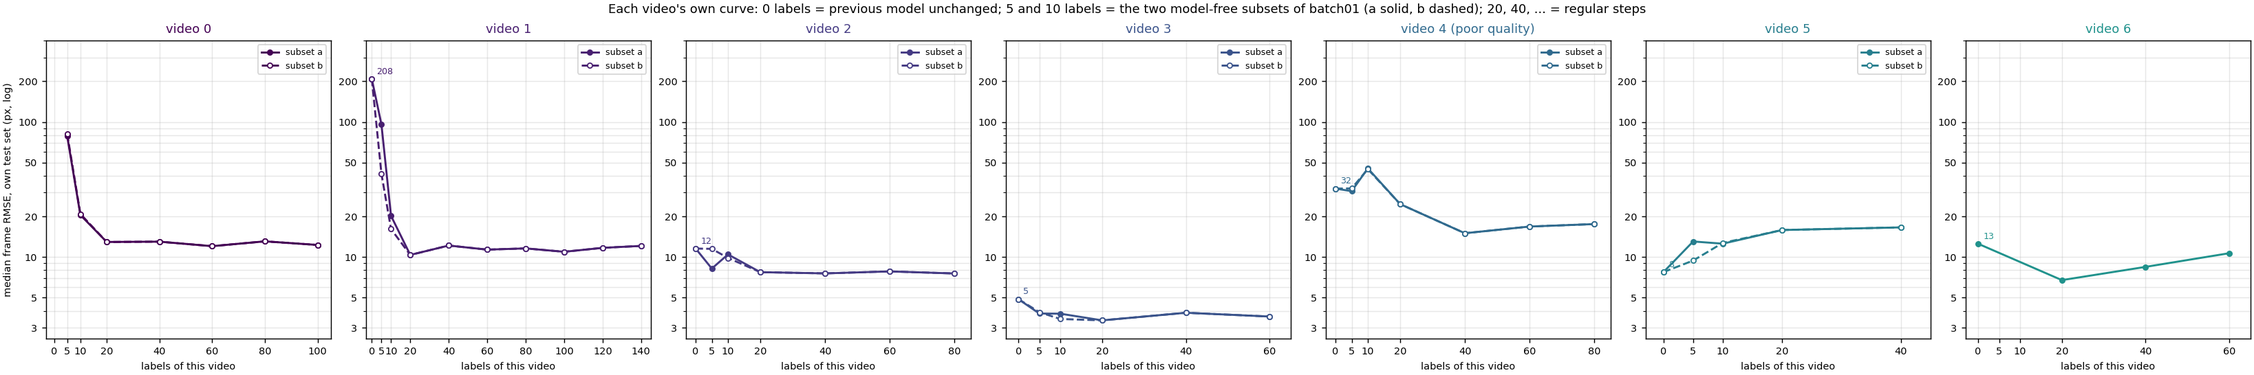
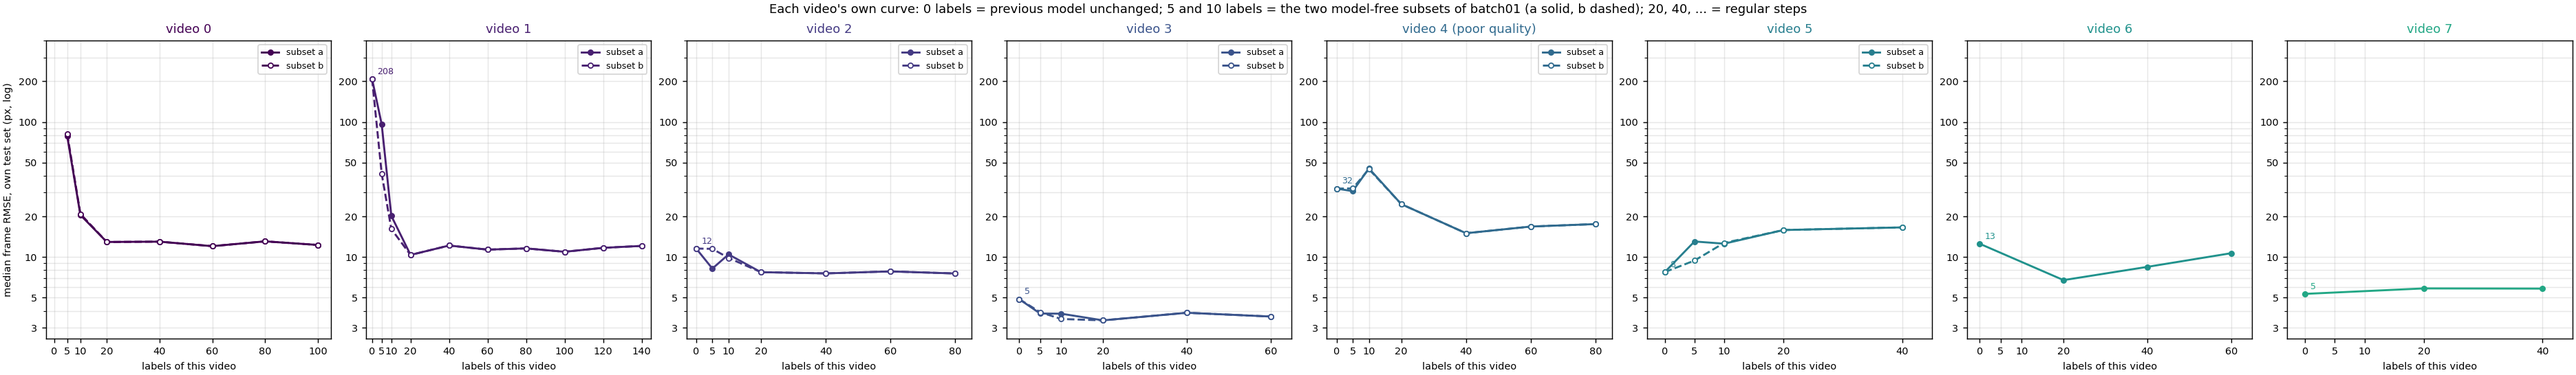
Video 8 (v2 line): test set relabeled under v2 and frozen; 0-label score; step 1 training

diff --git a/README.md b/README.md
@@ -8,7 +8,7 @@ how many human labels are needed, and how few frames must a person correct, befo
 Zhiheng Li (University of Minnesota), with Kaiwen Sheng (Stanford). Raw videos, frames, labels, model weights and
 per-frame predictions stay local; git carries code, documentation and audited aggregate results.
 
-## Status (last updated 2026-09-29 23:30 CDT)
+## Status (last updated 2026-09-30 00:15 CDT)
 
 | what | state |
 |---|---|
@@ -19,7 +19,8 @@ per-frame predictions stay local; git carries code, documentation and audited ag
 | Finished | **video 5** (Pluto, 2025-10-29, convention v2): plateau at **20 labels, 15.85 px** (0/20/40 = 11.90/15.85/16.58 px; the 0-label model is > 50 px off on 12% of frames, 20 labels remove all of them) |
 | Finished | **fewer-labels study** (videos 0-5, step 1 retrained with 5 or 10 of its 20 labels, training set otherwise as at that time): 5 labels were enough only on videos 3 and 5; on videos 0, 1, 2 and 4, 5 or 10 labels fall short of 20 (video 4: 10 labels worse than none). 20 labels is the smallest batch that worked on every video; table in `v2_new_pupil_top_video_scaling/results/README.md` |
 | Finished | **video 6** (Pluto, 2025-10-28, v2 line continued): test set relabeled under v2 and frozen; 0 labels (video-5 model 631) = 9.36 px, 20 labels = 6.75 px (p90 11.2), 40 labels = 8.46 px, 60 labels = 10.68 px (p90 14.9): finished at **20 labels, 6.75 px** (rule fired at 60; user decision 2026-09-29). |
-| Finished | **video 7** (Pluto, 2025-10-27, v2 line): test set relabeled under v2 and frozen; 0 labels (video-6 model 711) = 5.36 px, 20 labels = 5.86 px, 40 labels = 5.84 px: finished at **0 labels, 5.36 px** - the video-6 model already fits this day (user decision 2026-09-29). Next: video 8 (2025-10-24), test set being relabeled under v2 Cross-video curves now also show the 5 / 10-label subset models (open markers) |
+| Finished | **video 7** (Pluto, 2025-10-27, v2 line): test set relabeled under v2 and frozen; 0 labels (video-6 model 711) = 5.36 px, 20 labels = 5.86 px, 40 labels = 5.84 px: finished at **0 labels, 5.36 px** - the video-6 model already fits this day (user decision 2026-09-29). |
+| In progress | **video 8** (Pluto, 2025-10-24, v2 line): test set relabeled under v2 and frozen; 0 labels (video-6 model 711) = 27.46 px; step 1 (20 labels) training Cross-video curves now also show the 5 / 10-label subset models (open markers) |
 | v3 (paused) | `v3_pupil_vedio_scaling/`: videos linked; labelling guide v0.2 records the 2026-09-29 decision (Kaiwen Sheng): the light band around the black core is pupil (fur / eyelash occlusion, IR-LED lightening), so the labeler's outer-edge labels are the reference and the guide's core-based procedure is withdrawn; v3 resumes after the procedure is re-derived from the human labels |
 | Blink / area analysis | per-video time series in `<video>/results/blink_area_analysis/`; across videos (`v2_new_pupil_top_video_scaling/results/blink_area_consistency.png`): 4-point area better on 7 of 8 test sets; lowest pupil confidence < ~0.2 separates all 16 human closed-eye frames (the production 0.6 cut flags ~half of open frames); area correlates with eye opening in every video |
 | Test-set only | videos 5-8 (2025-10-29 / 28 / 27 / 24): frozen test sets scored by every model so far; videos 9 (10-23) and 10 (10-22): test sets being labeled |
@@ -38,6 +39,7 @@ Labels needed per video (plateau = two consecutive 20-label steps that improve t
 | 5 | Pluto, 2025-10-29 | 360 | 11.90 / 15.85 / 16.58 px (v2) | 20 labels, 15.9 px (0 labels: 12% of frames > 50 px) |
 | 6 | Pluto, 2025-10-28 | 380 | 9.36 / 6.75 / 8.46 / 10.68 px (v2) | 20 labels, 6.75 px (rule fired at 60) |
 | 7 | Pluto, 2025-10-27 | 400 | 5.36 / 5.86 / 5.84 px (v2) | 0 labels, 5.36 px (rule fired at 40) |
+| 8 | Pluto, 2025-10-24 | 400 | 27.46 px (v2, in progress) | – |
 
 What the numbers say:
 

diff --git a/v2_new_pupil_top_video_scaling/results/README.md b/v2_new_pupil_top_video_scaling/results/README.md
@@ -20,6 +20,7 @@ snapshot with the best validation mAP after the first learning-rate drop (epochs
 | 5 `5_20251029_Pluto_spont_1` | mouse B, 19.9 min, 2025-10-29 | 360 (videos 0-3 + 40 of video 4 run 2) | convention v2: 11.90 / 15.85 / 16.58 / – / – / – | **20 labels** (user decision: the median rule fires at 0, but the 0-label model is > 50 px off on 12% of test frames; 20 labels remove all of them) | 15.85 px |
 | 6 `6_20251028_Pluto_spont_1` | mouse B, 19.9 min, 2025-10-28 | 380 (videos 0-3 + 40 of video 4 + 20 of video 5) | convention v2: 9.36 / 6.75 / 8.46 / 10.68 | **20 labels** (rule fired at 60; user decision 2026-09-29) | 6.75 px |
 | 7 `7_20251027_Pluto_spont1` | mouse B, 19.9 min, 2025-10-27 | 400 (videos 0-3 + 40 of video 4 + 20 of video 5 + 20 of video 6) | convention v2: 5.36 / 5.86 / 5.84 | **0 labels** (rule fired at 40; user decision 2026-09-29) | 5.36 px |
+| 8 `8_20251024_Pluto_spont1` | mouse B, 19.9 min, 2025-10-24 | 400 (videos 0-3 + 40 of video 4 + 20 of video 5 + 20 of video 6) | convention v2: 27.46 / – | in progress | – |
 
 Notes
 - With 50 test frames the median moves by about 1 px between neighbouring steps from sampling alone, so the

diff --git a/v2_new_pupil_top_video_scaling/8_20251024_Pluto_spont1/results/README.md b/v2_new_pupil_top_video_scaling/8_20251024_Pluto_spont1/results/README.md
@@ -1,0 +1,11 @@
+# Video 8: 2025-10-24 Pluto spont 1 (mouse B, 19.9 min; index 8) - labeling convention v2
+
+Label scaling under convention v2, continuing the v2 line after video 7 (which needed no labels of its own). The test
+set (50 frames, last 10% of the video) was relabeled under v2 on 2026-09-29 (pre-labels = the labeler's own v1
+labels; 113 of 400 points moved, 3 emptied) and frozen. val20 and batch01 were pre-labeled with the video-6 20-label
+model (711) and corrected. Training set of every step = videos 0-3 + video 4 run 2 batches 1-2 (40) + video 5 batch 1
+(20) + video 6 batch 1 (20) + this video's labels (video 7 contributed none); shuffles 911, 912, ...
+
+| labels of this video | median | p90 | frames > 50 px | keypoints conf >= 0.6 | pool frames flagged by the jump rule |
+|---|---|---|---|---|---|
+| 0 (video-6 20-label model 711, applied unchanged) | 27.46 px | 51.3 | 14% | 59% | – |
